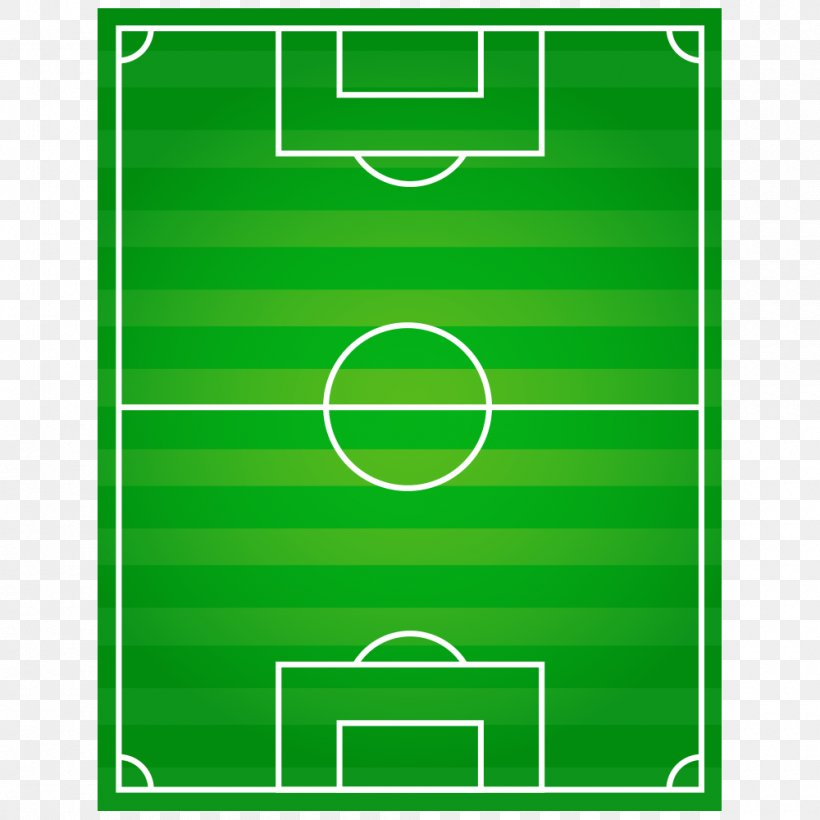
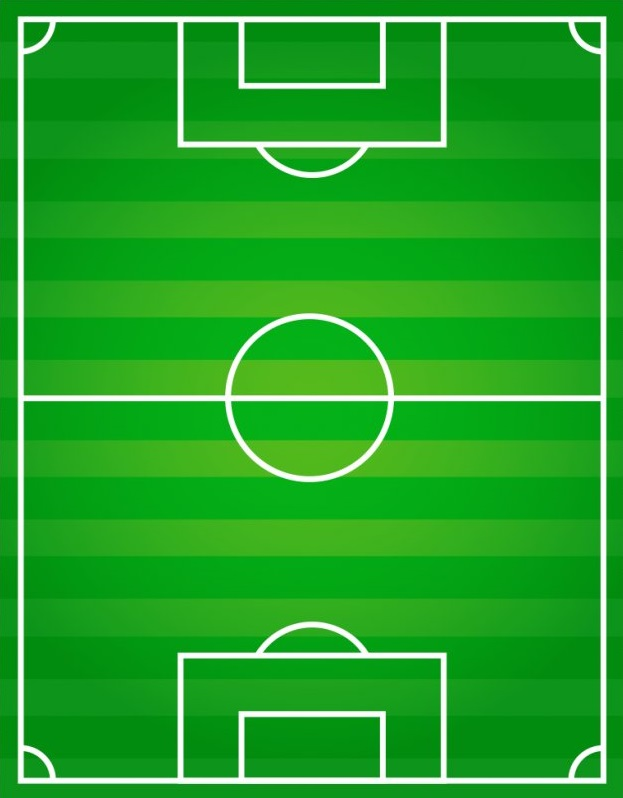
updated image and npm packages

diff --git a/src/components/pitch/pitchLine/pitchLine.test.tsx b/src/components/pitch/pitchLine/pitchLine.test.tsx
@@ -1,0 +1,12 @@
+import React from 'react';
+import PitchLine from './';
+import { render } from '@testing-library/react';
+
+describe('Menu Component', () => {
+  it('should render properly', () => {
+    const subject = render(<h1>vzv</h1>);
+    //<PitchLine startingPos={0} positions={[]} />
+    const tree = subject.container;
+    expect(tree).toMatchSnapshot();
+  });
+});

diff --git a/src/components/pitch/Pitch.scss b/src/components/pitch/Pitch.scss
@@ -1,8 +1,8 @@
 .pitch {
   background-image: url('../../images/pitch.jpg');
   background-size: contain;
-  height: 820px;
-  width: 820px;
+  height: 798px;
+  width: 623px;
   display: flex;
   flex-direction: column;
   justify-content: space-around;
